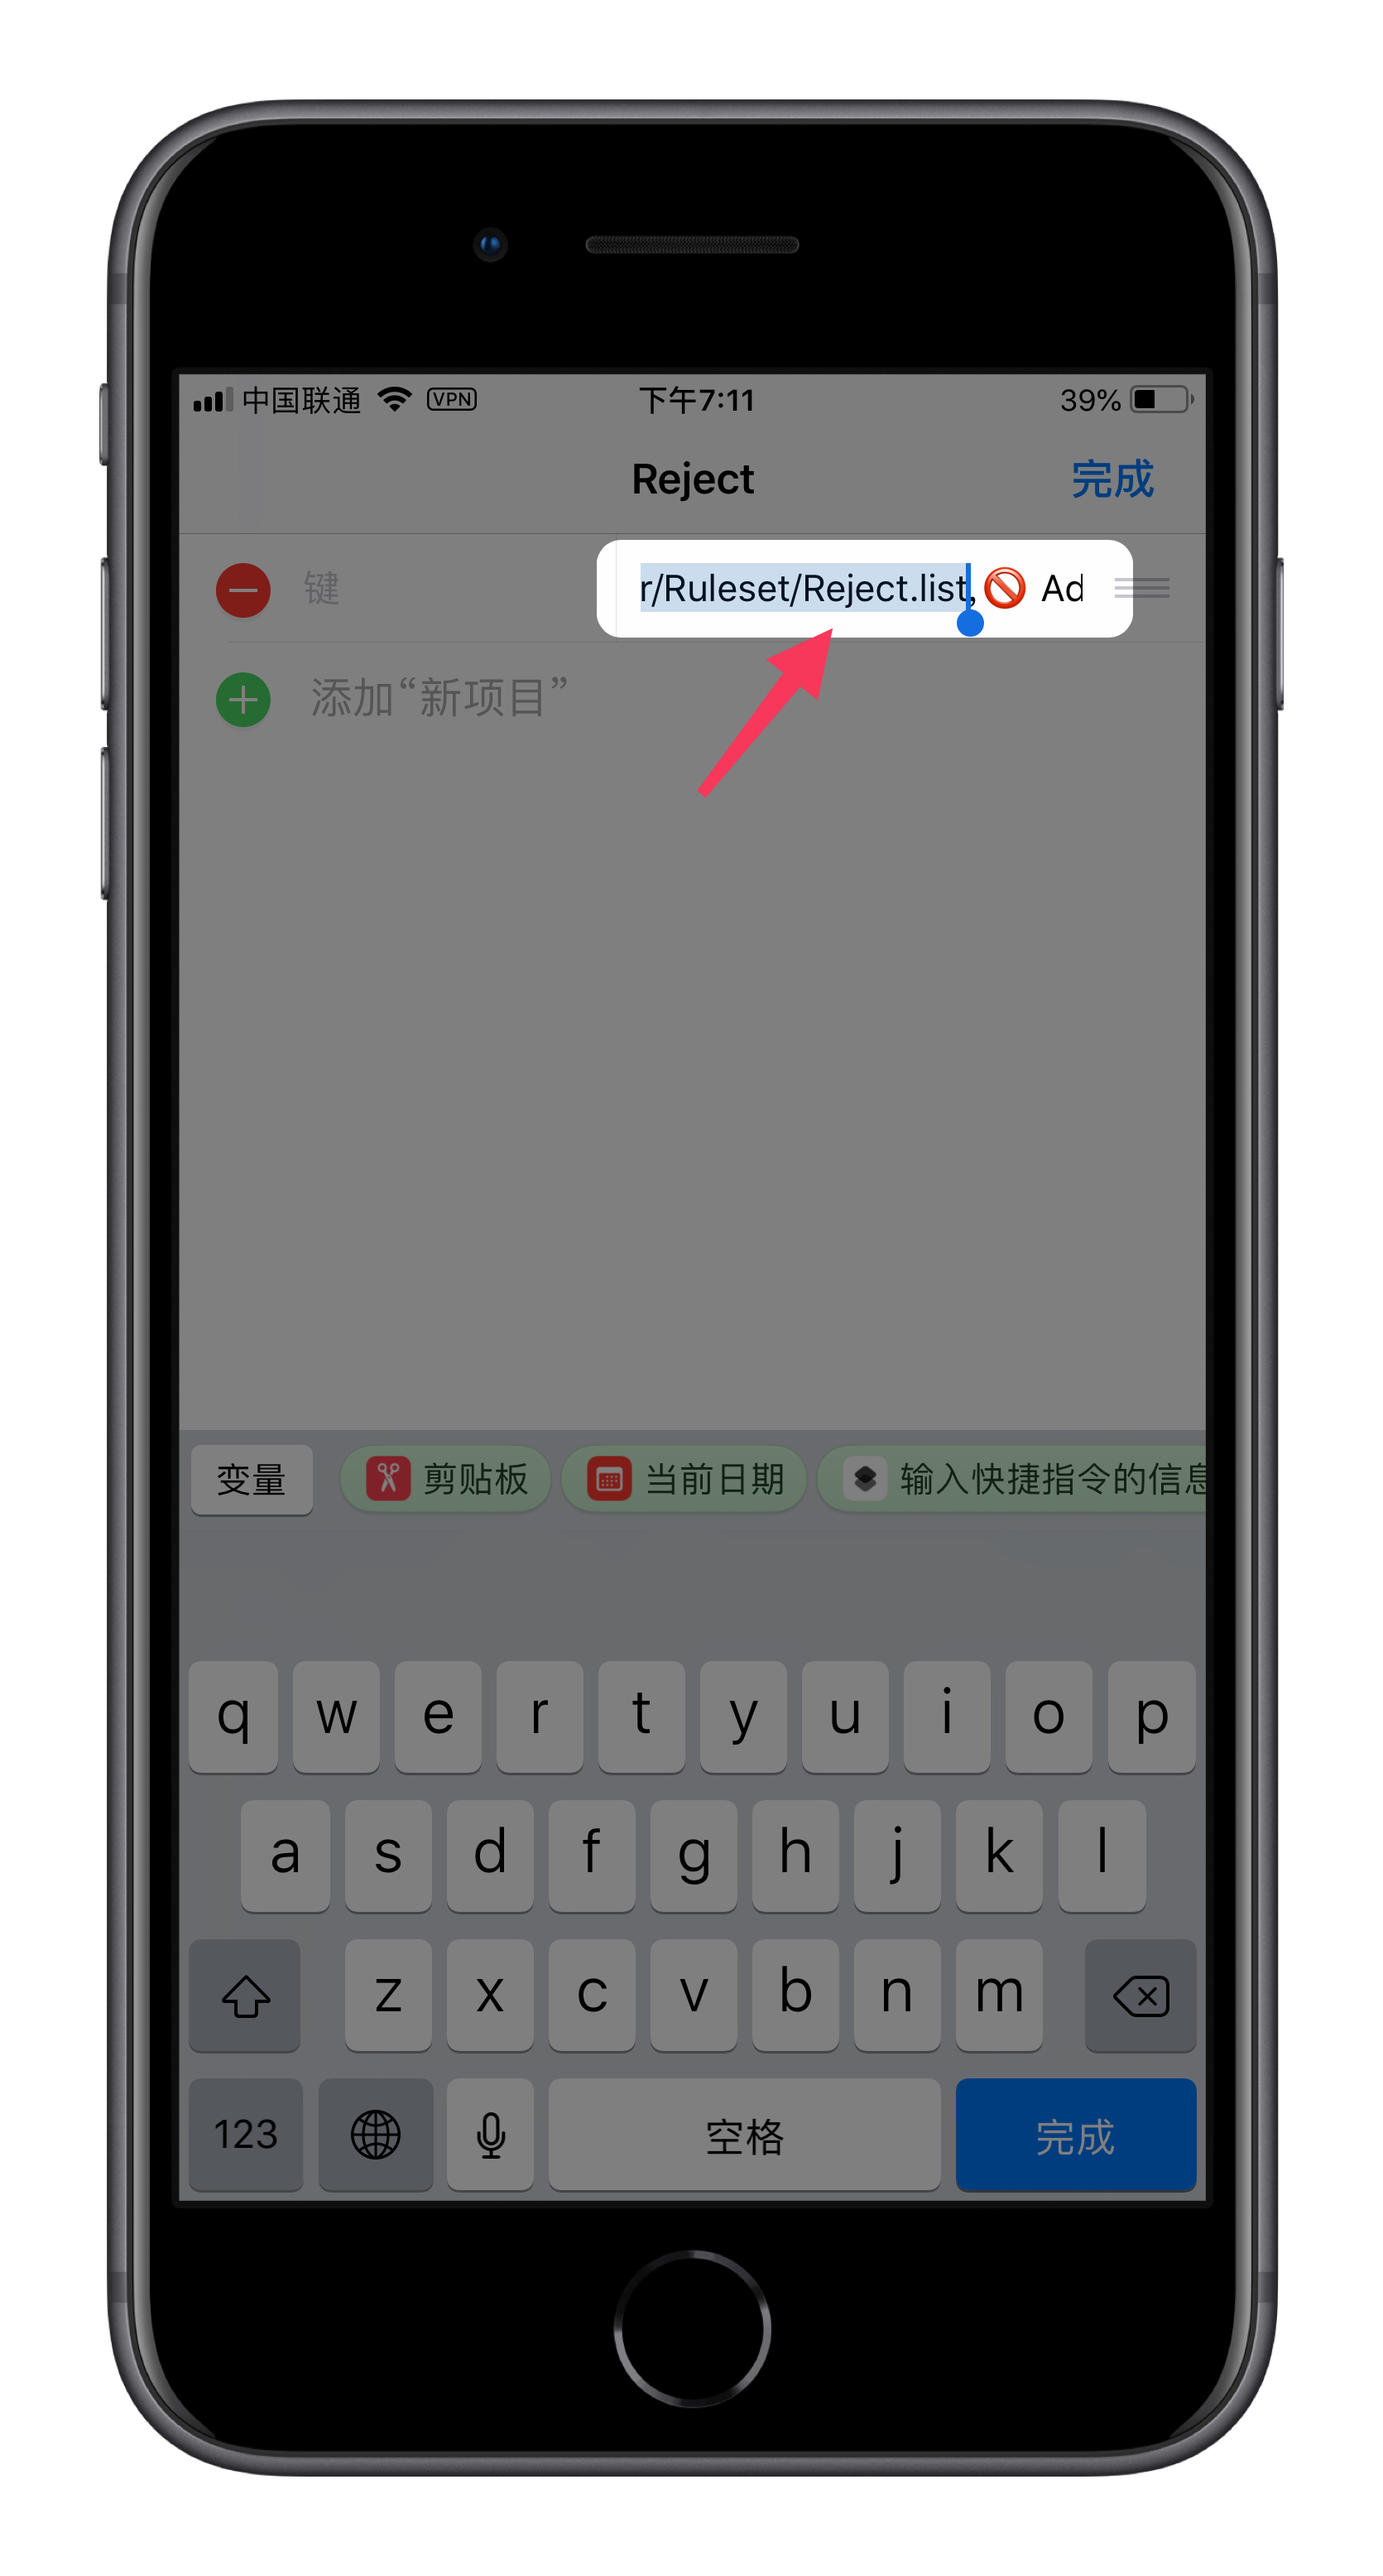
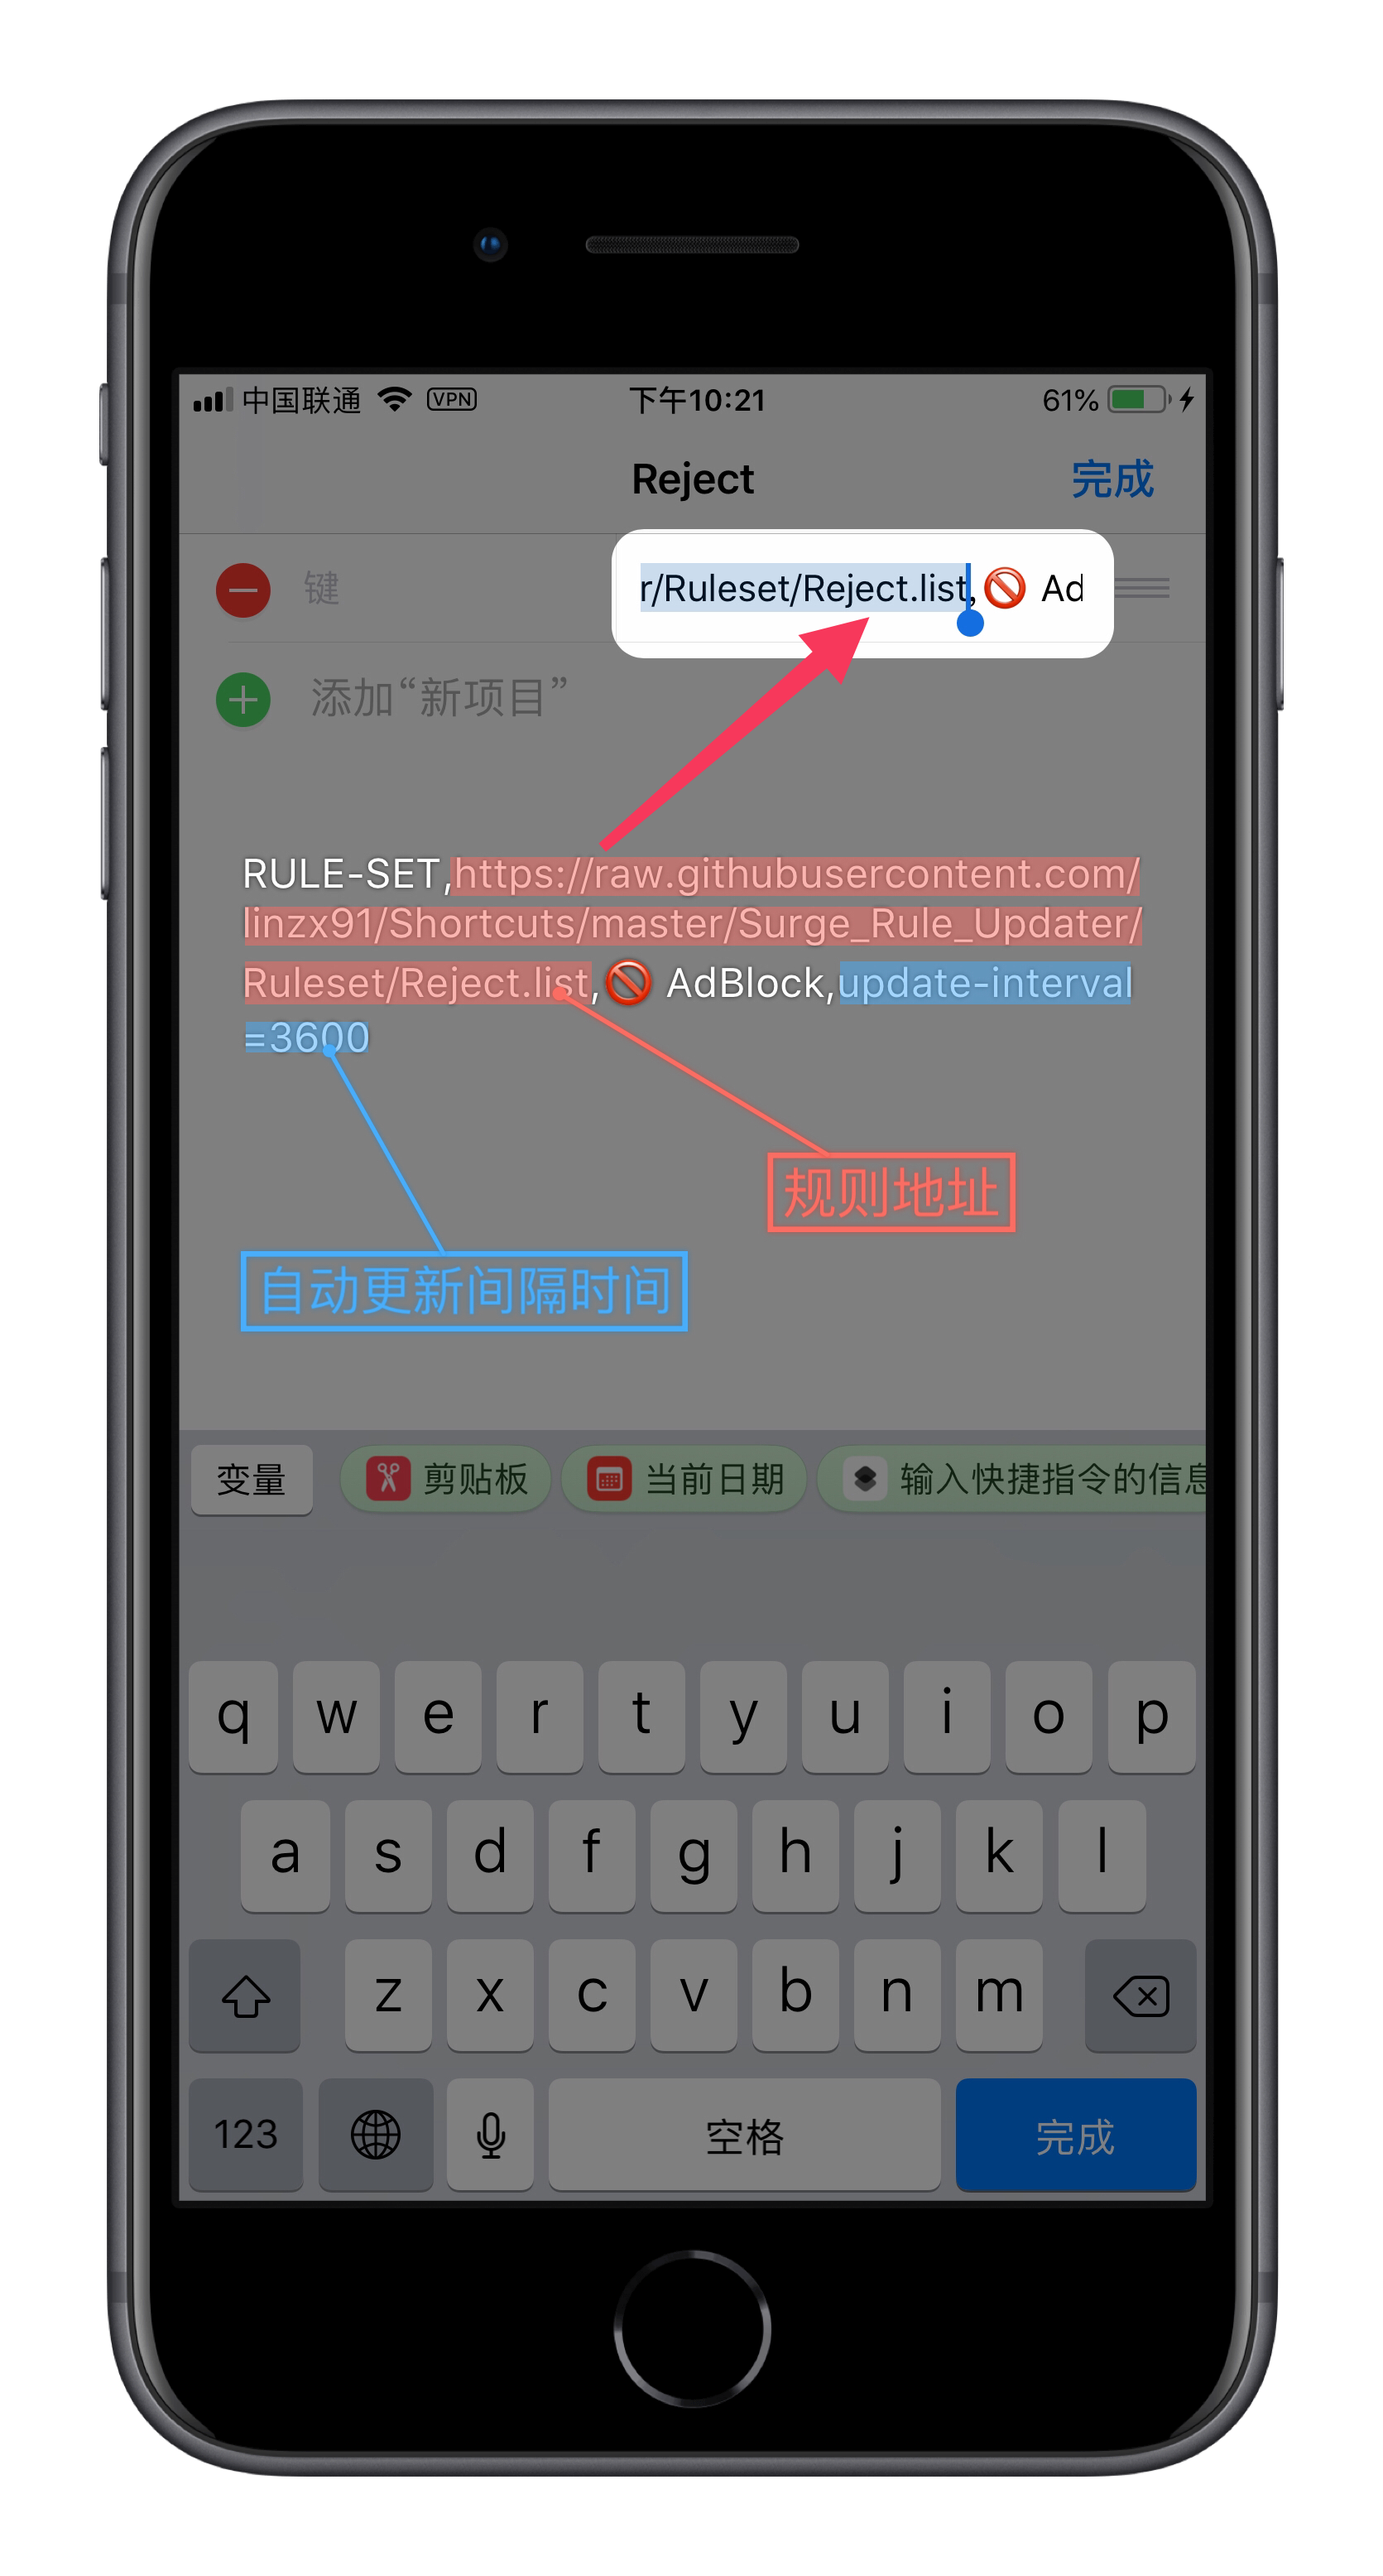
Update Method.md

Changed region(s): [[0.1556, 0.1247, 0.8402, 0.4365], [0.1556, 0.4677, 0.4979, 0.5301], [0.529, 0.4365, 0.7469, 0.4989]]

diff --git a/Surge_Rule_Updater/Method.md b/Surge_Rule_Updater/Method.md
@@ -17,9 +17,9 @@ RULE-SET,https://raw.githubusercontent.com/linzx91/Shortcuts/master/Surge_Rule_U
 **最后再将拖到列表顶部**
 ![](https://raw.githubusercontent.com/linzx91/Shortcuts/master/Images/Add_Rules_04.jpeg)
 
-如需替换项目内置规则集，则仅需更改`外部链接`即可，但不要在这里更改策略组信息，否则将可能会导致配置错误。
+如需替换项目内置规则集，则仅需更改`规则地址`即可，但不要在这里更改策略组信息，否则将可能会导致配置错误。
 
-RULE-SET,`外部链接`,🎬 Media,update-interval=3600
+RULE-SET,`规则地址`,🎬 Media,update-interval=3600
 
 `update-interval=3600`是自动更新间隔时间。
 
